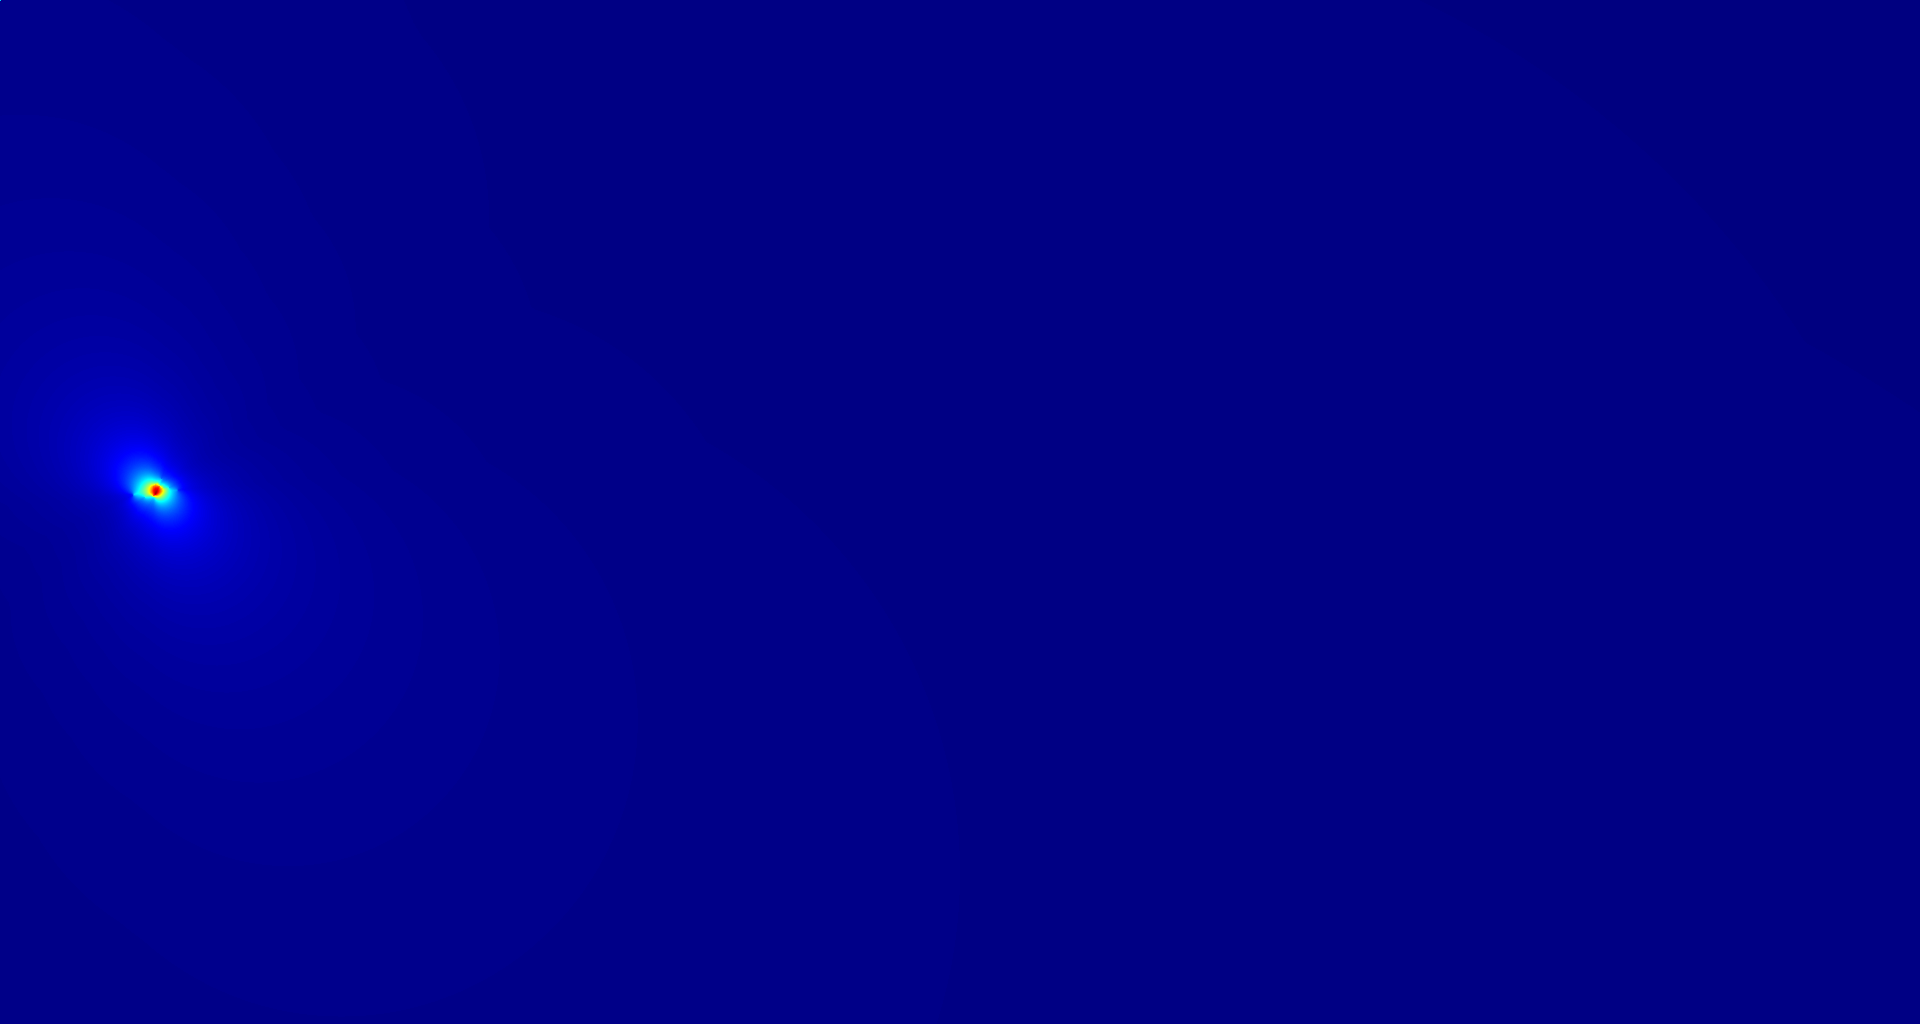
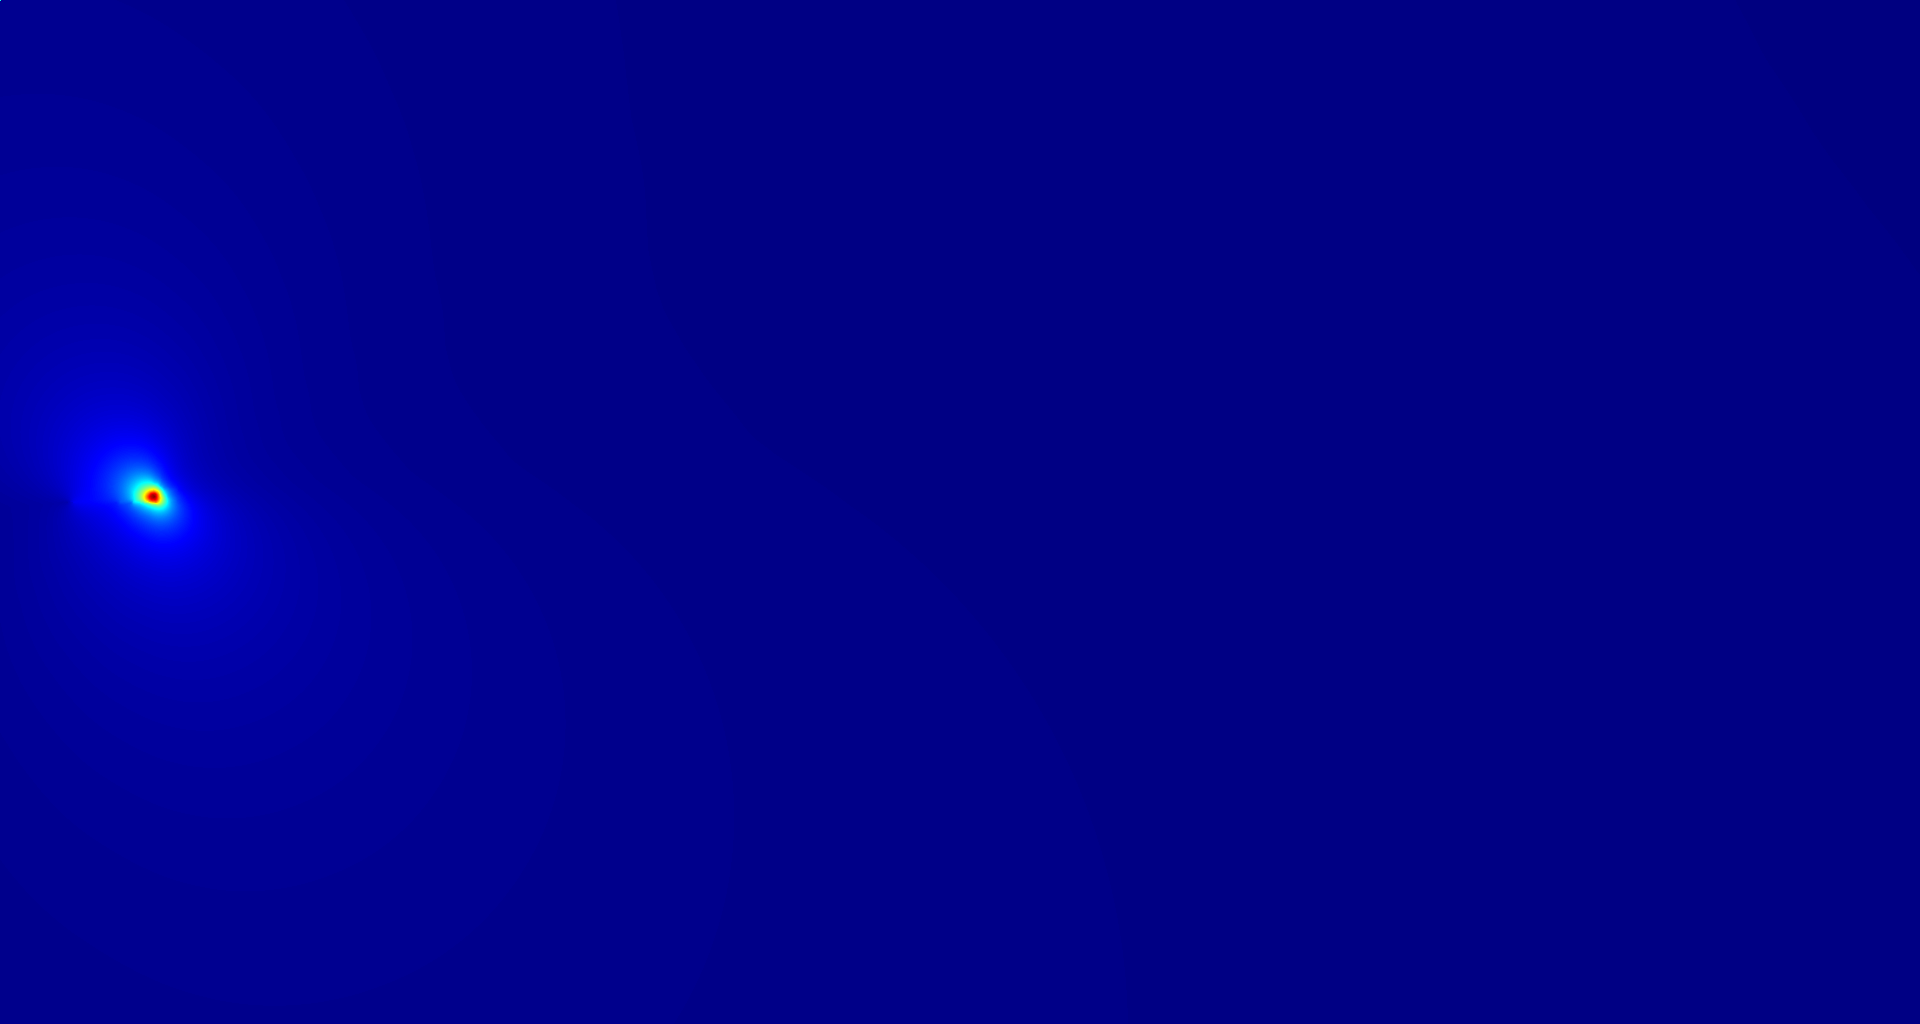
Calculate percentages with threshold

Changed region(s): [[0.0312, 0.4062, 0.0938, 0.5938]]

diff --git a/src/foe_analysis.py b/src/foe_analysis.py
@@ -9,8 +9,8 @@ import json
 
 import im_helpers
 
-N = 10
-max_value = 54 # degrees
+N = 100
+max_value = 43 # degrees
 
 def get_error_img(foe_location: str = 'center') -> np.ndarray:
     resolution = (1920, 1024)
@@ -51,7 +51,12 @@ def get_error_img(foe_location: str = 'center') -> np.ndarray:
 
             result_img += angle_diff
 
-    print(np.max(result_img) / 3 / N)
+    averaged = result_img / 3 / N
+    max = np.max(averaged)
+    less_than_one = np.sum(averaged < 1) / (resolution[0] * resolution[1]) * 100
+    less_than_five = np.sum(averaged < 5) / (resolution[0] * resolution[1]) * 100
+    print(f'{max:.01f} deg', f'{less_than_one:.01f}%', f'{less_than_five:.01f}%')
+
     result_img = im_helpers.apply_colormap(result_img, max_value=max_value * 3 * N)
     cv2.imwrite(f'media/foe-error-{foe_location}.png', result_img)
     return result_img
